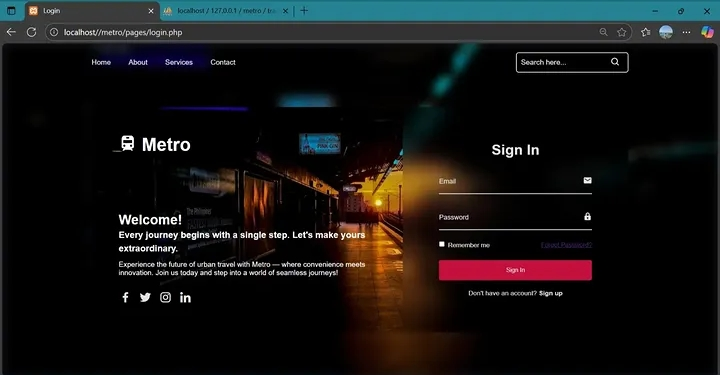
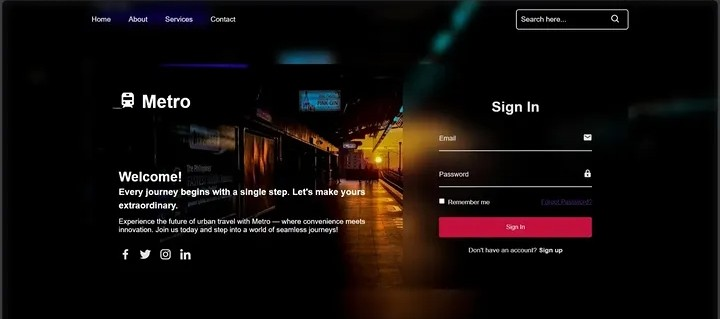
add image for cpp project

diff --git a/index.html b/index.html
@@ -141,13 +141,27 @@
             </div>
           </article>
 
-          <article class="project-card">
+          <article class="project-card" id="project-cppquest">
             <div class="project-image">
-              <img src="assets/datamining.png" alt="Data mining and association rule analysis project" loading="lazy">
+              <img src="assets/cppquestproject.png" alt="C++ project" loading="lazy">
               <span class="project-index">04</span>
             </div>
             <div class="project-info">
-              <div class="project-meta"><span>DATA EXPLORATION</span><span>04 / 06</span></div>
+              <div class="project-meta"><span>EDUCATIONAL PLATFORM</span><span>04 / 06</span></div>
+              <h3>CppQuest — Gamified C++ Learning Platform</h3>
+              <p>A browser-based learning platform with C++ challenges, progress tracking, collaborative study, and a Code Lab for running C++17 programs.</p>
+              <ul class="tag-list" aria-label="Technologies used"><li>PHP</li><li>MySQL</li><li>Tailwind CSS</li><li>JavaScript</li><li>Node.js</li><li>C++17</li><li>Docker</li></ul>
+              <a class="project-link" href="https://github.com/edmarkavila00/cpp-learning" target="_blank" rel="noopener noreferrer" aria-label="View CppQuest on GitHub">View on GitHub <span aria-hidden="true">↗</span></a>
+            </div>
+          </article>
+
+          <article class="project-card">
+            <div class="project-image">
+              <img src="assets/datamining.png" alt="Data mining and association rule analysis project" loading="lazy">
+              <span class="project-index">05</span>
+            </div>
+            <div class="project-info">
+              <div class="project-meta"><span>DATA EXPLORATION</span><span>05 / 06</span></div>
               <h3>Association Rule Analysis</h3>
               <p>An exploration of how data mining can uncover useful relationships and patterns in datasets.</p>
               <ul class="tag-list" aria-label="Tools used"><li>RapidMiner</li><li>Excel</li><li>Visualization</li></ul>
@@ -155,19 +169,6 @@
             </div>
           </article>
 
-          <article class="project-card" id="project-cppquest">
-            <div class="project-image project-art art-green" aria-hidden="true">
-              <span class="art-symbol art-code">&lt;<span>/&gt;</span></span>
-              <span class="project-index">05</span>
-            </div>
-            <div class="project-info">
-              <div class="project-meta"><span>EDUCATIONAL PLATFORM</span><span>05 / 06</span></div>
-              <h3>CppQuest — Gamified C++ Learning Platform</h3>
-              <p>A browser-based learning platform with C++ challenges, progress tracking, collaborative study, and a Code Lab for running C++17 programs.</p>
-              <ul class="tag-list" aria-label="Technologies used"><li>PHP</li><li>MySQL</li><li>Tailwind CSS</li><li>JavaScript</li><li>Node.js</li><li>C++17</li><li>Docker</li></ul>
-              <a class="project-link" href="https://github.com/edmarkavila00/cpp-learning" target="_blank" rel="noopener noreferrer" aria-label="View CppQuest on GitHub">View on GitHub <span aria-hidden="true">↗</span></a>
-            </div>
-          </article>
 
           <article class="project-card">
             <div class="project-image">
